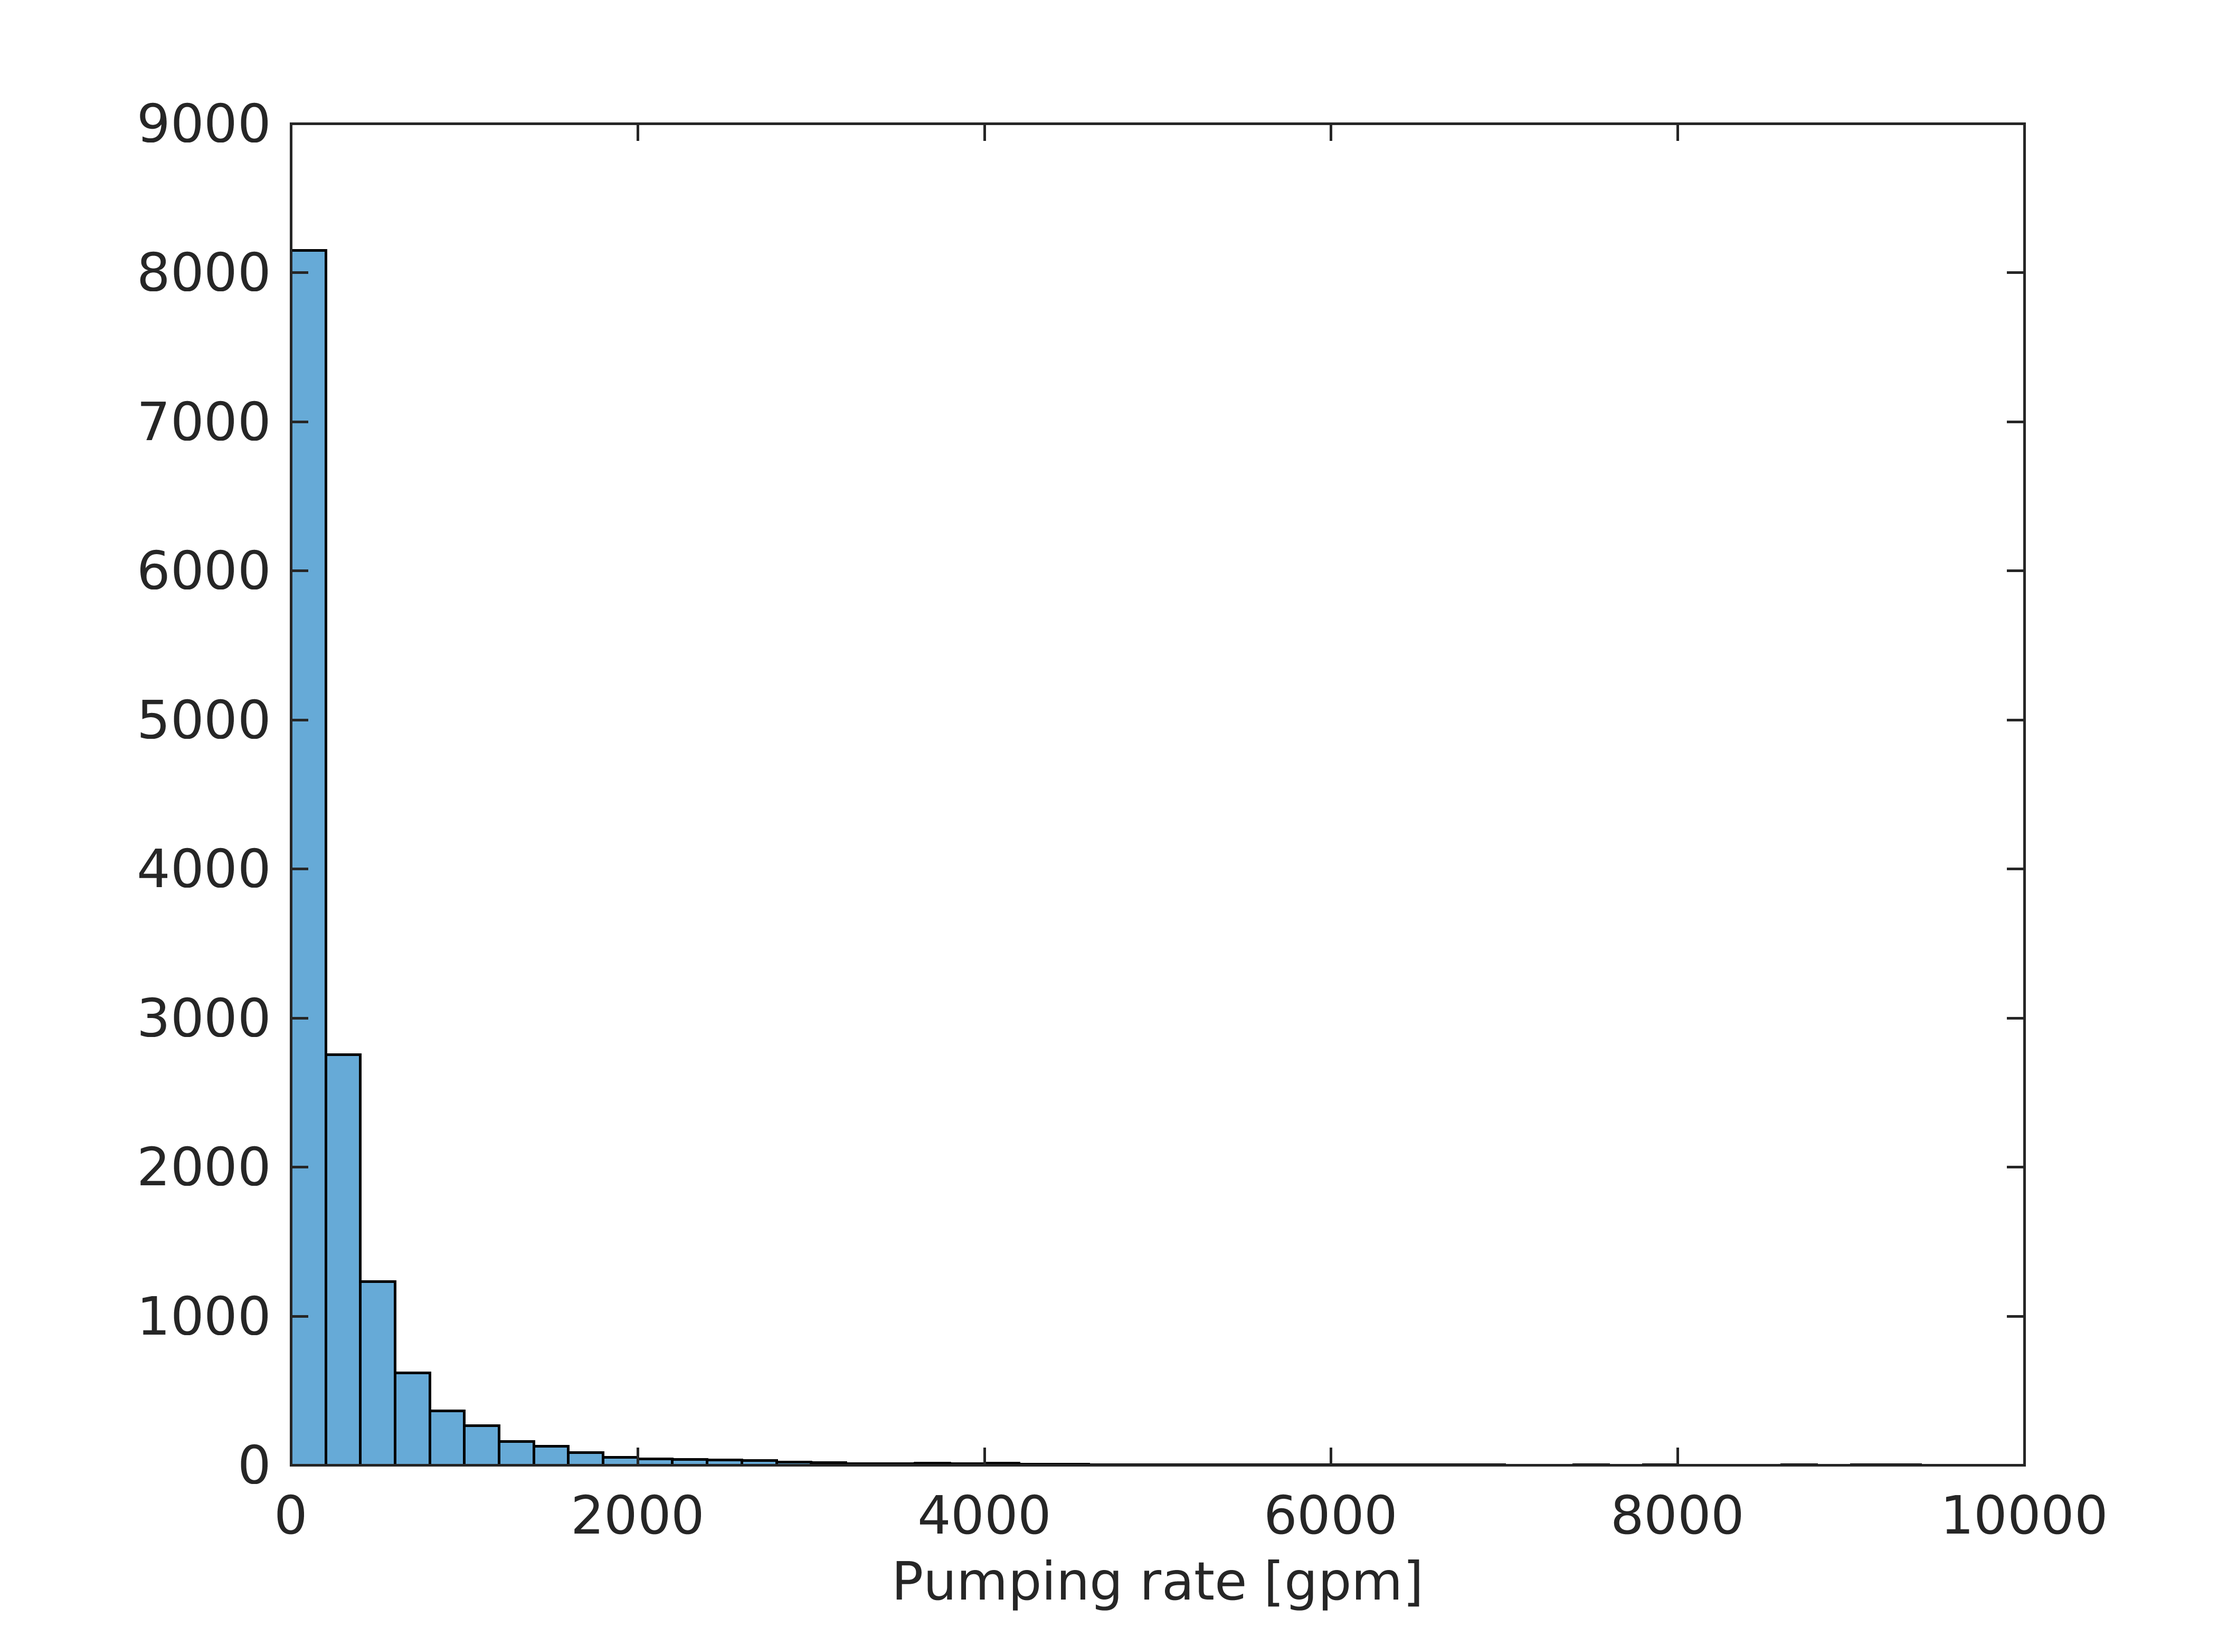
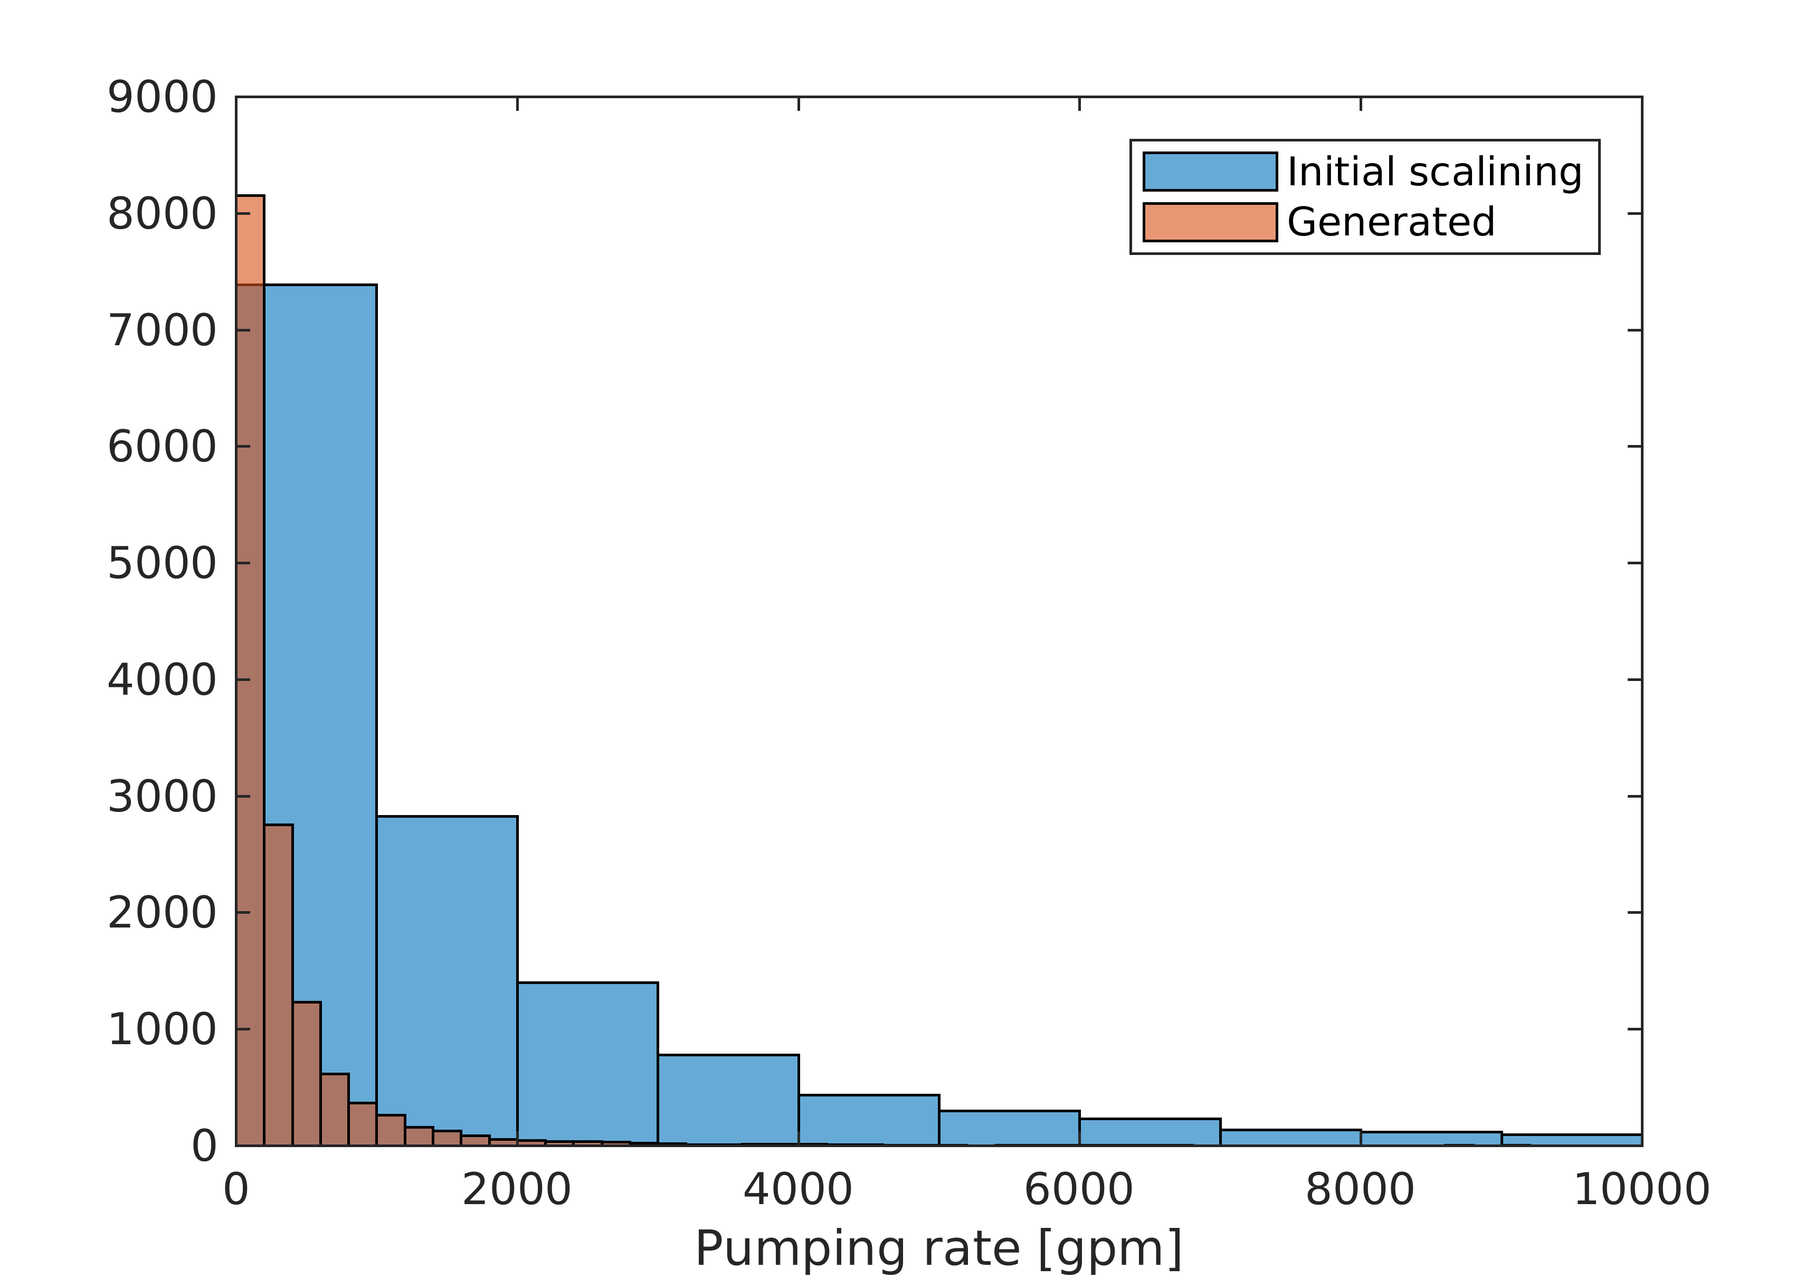
Start well analysisV2

Changed region(s): [[0.0623, 0.1559, 0.9651, 0.9975], [0.6226, 0.0935, 0.8717, 0.2182], [0.0623, 0.0623, 0.1245, 0.0935]]

diff --git a/GenerateWells_V2.m b/GenerateWells_V2.m
@@ -1,0 +1,64 @@
+%% WELL GENERATION ALGORITHM V2 
+% In this version we are going to take into account the pumping 
+% distribution of CVHM and combined information from the well dataset and
+% CVHM model
+%% Load Well data set
+% bot = depth from land surface to the bottom of the perforated interval [ft]
+% top = depth from land surface to the top of the perforated interval [ft]
+% bot - top is the length of the screened interval
+% Q pumping in gpm
+% year of construction
+S = shaperead('/home/giorgk/Documents/UCDAVIS/CVHM_DATA/WellData/CV_only_PubAg.shp');
+%% Well Age analysis
+% discard the wells without year of construction.
+% discard prehistoric and other old wells prior to 1900
+% discard future wells
+id_dlt = isnan([S.year]');
+S(id_dlt,:) = [];
+id_dlt = [S.year]' < 1900;
+S(id_dlt,:) = [];
+id_dlt = [S.year]' > 2018;
+S(id_dlt,:) = [];
+%% plot histogram of age
+histogram([S.year]')
+xlabel('Year of construction');
+%% Find the number of wells for a given threshold
+age_thres = 25;
+for age_thres = 1:80
+    Nwells(age_thres,1) = length(find([S.year]' > 2018 - age_thres));
+end
+%%
+plot(1:80, Nwells/1000,'linewidth',2)
+xlabel('Well Age [year]')
+ylabel('# of wells [10^3]')
+grid on
+grid minor
+%% spacial distribution for a given age threshold
+age_thres = 30;
+id_dlt = [S.year]' < 2018 - age_thres;
+Sact = S;
+Sact(id_dlt,:) = [];
+plot([Sact.X]',[Sact.Y]','.')
+%% CVHM WELL PUMPING
+% starting with the Bas active shapefile we will add all the well info on
+% each cell.
+Bas = shaperead('/home/giorgk/Documents/UCDAVIS/CVHM_NPSAT/gis_data/BAS_active.shp');
+%%
+for ii = [1 2 3 45 6 7 8 9 10]
+    Bas = rmfield(Bas,['lay' num2str(ii) '_act']);
+end
+for ii = 1:10
+    Bas = rmfield(Bas,['strt_hd_' num2str(ii,'%02.0f')]);
+end
+Bas = rmfield(Bas, 'grid_active');
+
+CVHM_wells = Bas;
+%% 
+ys = 1977; % year start
+ms = 10; % month start
+ye = 2003; % year end
+me = 2; % month end
+for 
+
+%% load Well Budgets
+load('/home/giorgk/Documents/UCDAVIS/CVHM_DATA/ClaudiaRun/ALLDATA.mat','MNWLS','FRMWLS');

diff --git a/AnalyseGeneratedWells.m b/AnalyseGeneratedWells.m
@@ -14,10 +14,15 @@ colorbar
 alpha(1);
 axis off
 %% Pumping
+histogram(6*wellGen(:,5)/5.450992969400)
+hold on
 histogram(wellGen(:,5)/5.450992969400)
 xlim([0 10000])
 xlabel('Pumping rate [gpm]')
+legend('Initial scalining','Generated')
+
 
 %% Screen length
 histogram((wellGen(:,3)-wellGen(:,4))*3.28084)
 xlabel('Screen length [ft]')
+xlim([0 1000])

diff --git a/Well_analysis.md b/Well_analysis.md
@@ -73,6 +73,6 @@ Results of the first run without tweakings
 ###### Pumping rates
 <img src="Simulated_pumping.png" alt="Pumping Maps" width="600"/> 
 
-###### Pumping rates
+###### Screen length
 <img src="Simulated_screen_length.png" alt="Pumping Maps" width="600"/> 
  
